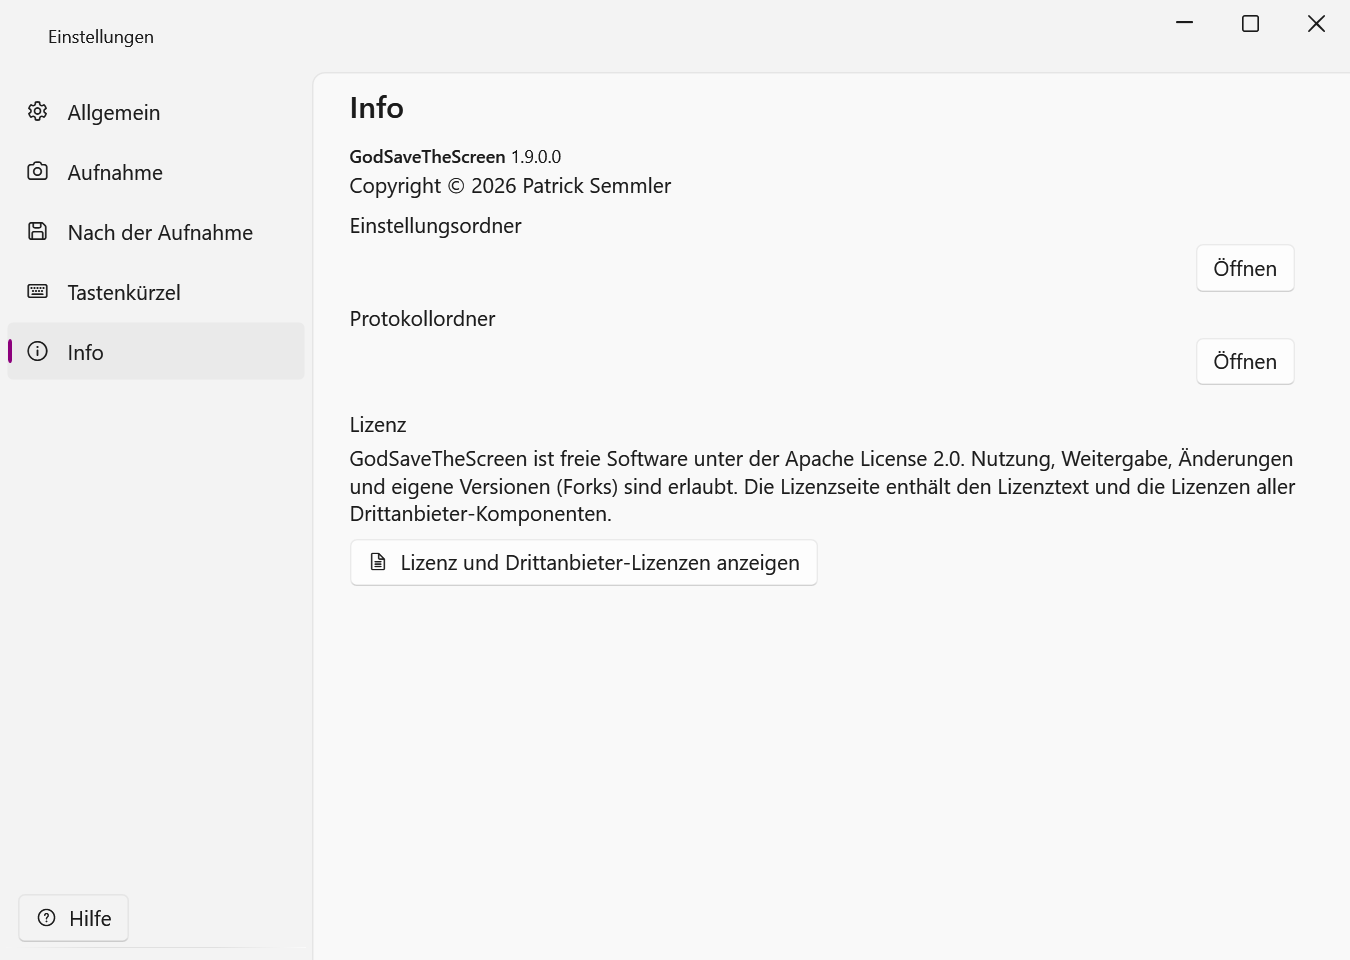
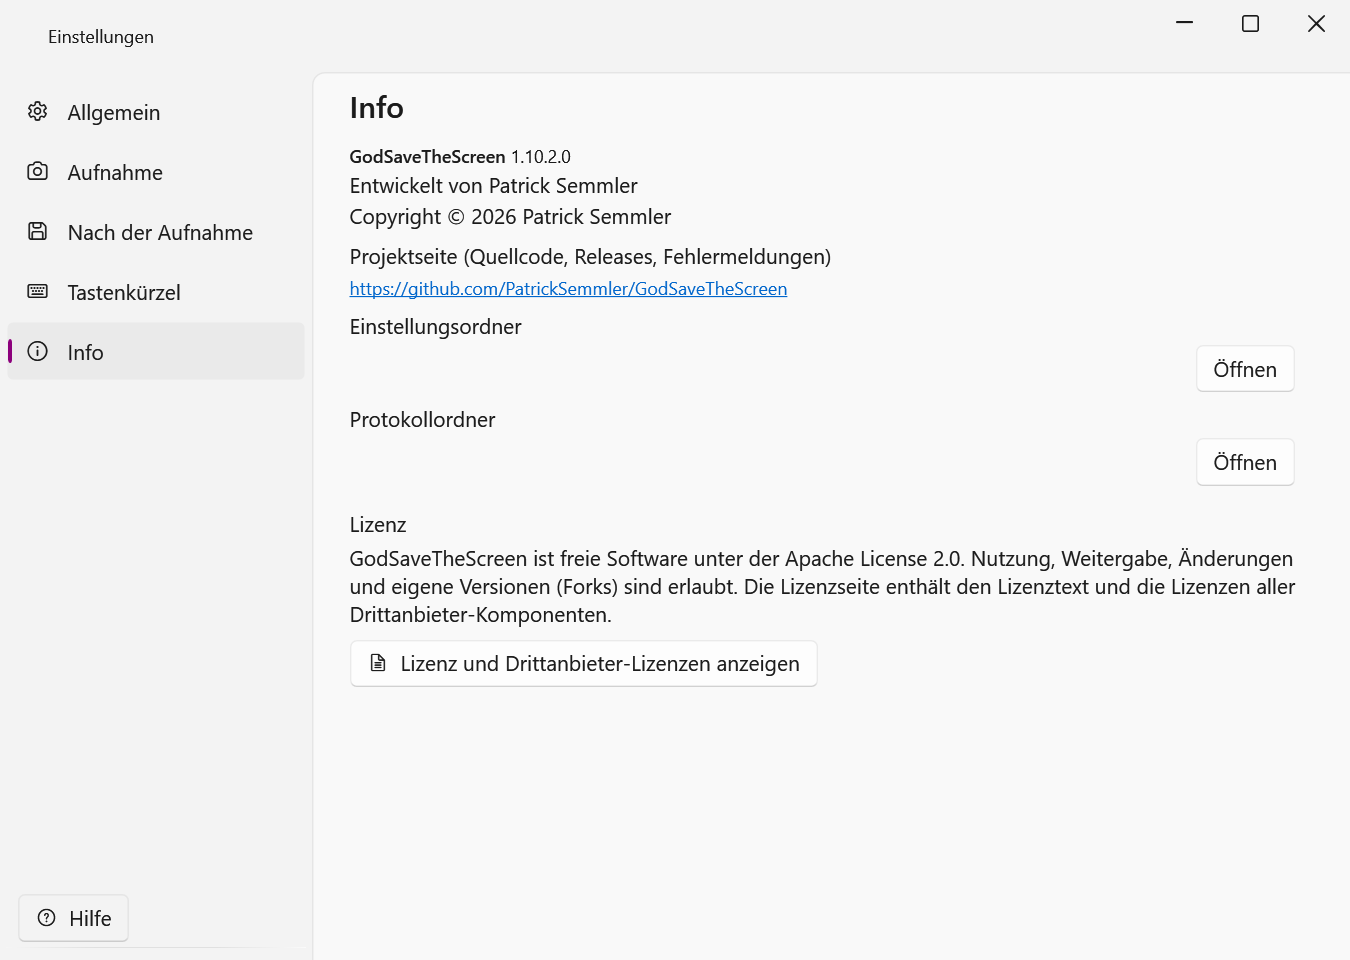
Feature: Show developer and GitHub project page in About settings
Settings > About now shows "Developed by Patrick Semmler" and a link to
https://github.com/PatrickSemmler/GodSaveTheScreen. Name and URL come
from <Authors>/<RepositoryUrl> in Directory.Build.props and are embedded
as AssemblyMetadata. User guide text and About screenshot updated.

Version 1.10.2.0

diff --git a/docs/help/de/index.html b/docs/help/de/index.html
@@ -648,7 +648,7 @@
 
 <h3 id="settings-about">Info</h3>
 <figure class="shot"><img src="images/settings-about.png" alt="Einstellungsseite Info"></figure>
-<p>Zeigt die Programmversion, öffnet den <b>Einstellungsordner</b> und den <b>Protokollordner</b> und zeigt Copyright und Lizenz. <span class="ui">Lizenz und Drittanbieter-Lizenzen anzeigen</span> öffnet die Lizenzseite im Browser: Kurzfassung der <b>Apache License 2.0</b>, Hinweise für Forks, der vollständige Lizenztext und alle <b>Drittanbieter-Komponenten</b> mit ihren Lizenzen.</p>
+<p>Zeigt Programmversion, Entwickler und den Link zur <b>Projektseite auf GitHub</b> (Quellcode, neue Versionen, Fehlermeldungen), öffnet den <b>Einstellungsordner</b> und den <b>Protokollordner</b> und zeigt Copyright und Lizenz. <span class="ui">Lizenz und Drittanbieter-Lizenzen anzeigen</span> öffnet die Lizenzseite im Browser: Kurzfassung der <b>Apache License 2.0</b>, Hinweise für Forks, der vollständige Lizenztext und alle <b>Drittanbieter-Komponenten</b> mit ihren Lizenzen.</p>
 
 <!-- ===================================================================== -->
 <h2 id="shortcuts">Tastenkürzel</h2>
@@ -722,7 +722,7 @@
 <p>Neuere Versionen ersetzen eine vorhandene Installation derselben Art (für den Benutzer bzw. für alle) automatisch und behalten ohne Angabe deren Ordner und Startmenü-Wahl; die Einstellungen der Benutzer bleiben erhalten.</p>
 
 <h3 id="faq-logs">Fehler melden</h3>
-<p>Bei Problemen helfen die Protokolle weiter. Den Protokollordner öffnen Sie unter <a href="#settings-about">Einstellungen → Info</a>.</p>
+<p>Bei Problemen helfen die Protokolle weiter. Den Protokollordner öffnen Sie unter <a href="#settings-about">Einstellungen → Info</a>. Fehler und Wünsche können Sie auf der Projektseite (ebenfalls unter Info) melden.</p>
 
 <footer>GodSaveTheScreen {{VERSION}} · Benutzeranleitung · <a href="#intro">Zum Anfang</a></footer>
 </div>

diff --git a/docs/help/en/index.html b/docs/help/en/index.html
@@ -648,7 +648,7 @@
 
 <h3 id="settings-about">About</h3>
 <figure class="shot"><img src="images/settings-about.png" alt="About settings page"></figure>
-<p>Shows the program version, opens the <b>settings folder</b> and the <b>log folder</b>, and shows the copyright and license. <span class="ui">Show license and third-party licenses</span> opens the license page in your browser: a summary of the <b>Apache License 2.0</b>, notes on forks, the full license text and all <b>third-party components</b> with their licenses.</p>
+<p>Shows the program version, the developer and a link to the <b>project page on GitHub</b> (source code, new versions, issue reports), opens the <b>settings folder</b> and the <b>log folder</b>, and shows the copyright and license. <span class="ui">Show license and third-party licenses</span> opens the license page in your browser: a summary of the <b>Apache License 2.0</b>, notes on forks, the full license text and all <b>third-party components</b> with their licenses.</p>
 
 <!-- ===================================================================== -->
 <h2 id="shortcuts">Keyboard shortcuts</h2>
@@ -722,7 +722,7 @@
 <p>Newer versions automatically replace an existing installation of the same kind (for the user or for all users) and, unless specified otherwise, keep its folder and Start menu choice; the users’ settings are kept.</p>
 
 <h3 id="faq-logs">Reporting problems</h3>
-<p>The logs help with problems. Open the log folder under <a href="#settings-about">Settings → About</a>.</p>
+<p>The logs help with problems. Open the log folder under <a href="#settings-about">Settings → About</a>. You can report bugs and suggestions on the project page (also linked under About).</p>
 
 <footer>GodSaveTheScreen {{VERSION}} · User Guide · <a href="#intro">Back to top</a></footer>
 </div>

diff --git a/src/GodSaveTheScreen.App/Views/Settings/AboutPage.xaml b/src/GodSaveTheScreen.App/Views/Settings/AboutPage.xaml
@@ -15,7 +15,18 @@
         <Run Text="{l:Loc App_Name}" FontWeight="SemiBold" />
         <Run Text="{Binding Version, Mode=OneWay}" />
       </TextBlock>
+      <StackPanel Orientation="Horizontal" Margin="0,2,0,0">
+        <TextBlock Text="{l:Loc Settings_DevelopedBy}" />
+        <TextBlock Text="{Binding Author, Mode=OneWay}" Margin="4,0,0,0" />
+      </StackPanel>
       <TextBlock Text="{Binding Copyright, Mode=OneWay}" Margin="0,2,0,0" />
+      <TextBlock Style="{StaticResource Label}" Text="{l:Loc Settings_ProjectPage}" />
+      <TextBlock TextWrapping="Wrap">
+        <Hyperlink Command="{Binding OpenRepositoryCommand}" ToolTip="{Binding RepositoryUrl, Mode=OneWay}"
+                   AutomationProperties.Name="{l:Loc Settings_ProjectPage}">
+          <Run Text="{Binding RepositoryUrl, Mode=OneWay}" />
+        </Hyperlink>
+      </TextBlock>
       <TextBlock Style="{StaticResource Label}" Text="{l:Loc Settings_DataFolder}" />
       <Grid>
         <Grid.ColumnDefinitions>

diff --git a/src/GodSaveTheScreen.App/ViewModels/SettingsViewModel.cs b/src/GodSaveTheScreen.App/ViewModels/SettingsViewModel.cs
@@ -323,6 +323,17 @@ public sealed partial class SettingsViewModel : ObservableObject
         typeof(SettingsViewModel).Assembly.GetCustomAttributes(typeof(System.Reflection.AssemblyCopyrightAttribute), false)
             is [System.Reflection.AssemblyCopyrightAttribute { Copyright: { Length: > 0 } text }, ..] ? text : string.Empty;
 
+    /// <summary>Entwickler aus <c>Directory.Build.props</c> (<c>&lt;Authors&gt;</c>).</summary>
+    public string Author { get; } = AssemblyMetadata("Authors");
+
+    /// <summary>Projektseite auf GitHub aus <c>Directory.Build.props</c> (<c>&lt;RepositoryUrl&gt;</c>).</summary>
+    public string RepositoryUrl { get; } = AssemblyMetadata("RepositoryUrl");
+
+    private static string AssemblyMetadata(string key) =>
+        typeof(SettingsViewModel).Assembly.GetCustomAttributes(typeof(System.Reflection.AssemblyMetadataAttribute), false)
+            .OfType<System.Reflection.AssemblyMetadataAttribute>()
+            .FirstOrDefault(a => a.Key == key)?.Value ?? string.Empty;
+
     /// <summary>Hotkeys während einer Aufnahme im Recorder ausschalten, damit die Kombination nicht auslöst.</summary>
     public void SuspendHotkeys() => _hotkeys.SuspendHotkeys();
 
@@ -353,6 +364,13 @@ public sealed partial class SettingsViewModel : ObservableObject
 
     [RelayCommand]
     private void ShowLicense() => _help.ShowLicense();
+
+    [RelayCommand]
+    private void OpenRepository()
+    {
+        if (Uri.TryCreate(RepositoryUrl, UriKind.Absolute, out var uri) && uri.Scheme == Uri.UriSchemeHttps)
+            Shell(uri.AbsoluteUri);
+    }
 
     [RelayCommand]
     [System.Diagnostics.CodeAnalysis.SuppressMessage("Performance", "CA1822", Justification = "Wird von RelayCommand als Instanzmethode benötigt")]

diff --git a/src/GodSaveTheScreen.App/Resources/Strings.Designer.cs b/src/GodSaveTheScreen.App/Resources/Strings.Designer.cs
@@ -183,7 +183,11 @@ public static class Strings
 
     public static string Settings_Open => ResourceManager.GetString("Settings_Open", Culture) ?? "Settings_Open";
 
-    public static string Settings_Licenses => ResourceManager.GetString("Settings_Licenses", Culture) ?? "Settings_Licenses";
+    public static string Settings_DevelopedBy => ResourceManager.GetString("Settings_DevelopedBy", Culture) ?? "Settings_DevelopedBy";
+
+    public static string Settings_ProjectPage => ResourceManager.GetString("Settings_ProjectPage", Culture) ?? "Settings_ProjectPage";
+
+    public static string Settings_Licenses =>ResourceManager.GetString("Settings_Licenses", Culture) ?? "Settings_Licenses";
 
     public static string Settings_LicenseInfo => ResourceManager.GetString("Settings_LicenseInfo", Culture) ?? "Settings_LicenseInfo";
 

diff --git a/tests/GodSaveTheScreen.App.Tests/M11Tests.cs b/tests/GodSaveTheScreen.App.Tests/M11Tests.cs
@@ -555,6 +555,18 @@ public sealed class ReleaseConfigurationTests
     }
 
     [Fact]
+    public void InfoSeite_KenntEntwicklerUndProjektseite()
+    {
+        var metadata = typeof(GodSaveTheScreen.App.ViewModels.SettingsViewModel).Assembly
+            .GetCustomAttributes(typeof(System.Reflection.AssemblyMetadataAttribute), false)
+            .OfType<System.Reflection.AssemblyMetadataAttribute>()
+            .ToDictionary(a => a.Key, a => a.Value);
+
+        metadata["Authors"].ShouldBe("Patrick Semmler");
+        metadata["RepositoryUrl"].ShouldBe("https://github.com/PatrickSemmler/GodSaveTheScreen");
+    }
+
+    [Fact]
     public void PublishProfil_EntsprichtDerVorgabe()
     {
         var profile = XDocument.Parse(Read("src", "GodSaveTheScreen.App", "Properties", "PublishProfiles", "win-x64.pubxml"));

diff --git a/docs/agent/architecture.md b/docs/agent/architecture.md
@@ -46,7 +46,7 @@ Verified against working tree on top of commit e7168c5 (Installer uncommitted) o
 - Bildobjekte: `ImageAnnotation` (Diskriminator `image`, `IRotatableAnnotation`/`IShadowAnnotation`/`IFlippableAnnotation` wie Emoji, `Source` = `ImageAsset`, `OriginalSize`, `Outline`/`OutlineBlur`) zeichnet `AnnotationRenderer.Images.cs` selbst gedreht/gespiegelt; Kontur = `SoftLayer.CreateOutline` (Deckung per `DistanceTransform` geweitet, unter dem Bild), Schatten kommt automatisch aus der Deckung (`DrawCore`) und folgt so der Transparenz. Quellen: `ImageTool` (`I`, Klick/Bereich -> `EditorContext.RequestImageInsert` -> `EditorViewModel.InsertImageFromFiles`, per Dispatcher nach dem Zeigerereignis), Panel-/Kontextmenü „Bild einfügen…“, `Strg+Umschalt+V` (`PasteAsImageCommand`: Objekte, Dateiliste, SVG, Bitmap), Drop auf die Zeichenfläche (`EditorCanvas.DropPoint`; außerhalb/Strg/eigener Drag = neues Fenster wie bisher). `ImageInsert.Load` + `IImageInsertDialogs` (Dateiauswahl, `FramePickerDialog` für Mehrbilddateien) -> `ImageImport` -> `ImageToolState.Insert` (Vorgaben `AppSettings.ImageDefaults`, ein Undo-Schritt, Originalgröße ≤ 80 % des Screenshots bzw. in Bereich eingepasst). Panel `ImagePropertiesViewModel`, Vorlagen `PresetKind.Image`/`ToolPreset.Image`
 - Bereiche entfernen: `AreaSelectTool` (`W`, Rechteck/Ellipse/Lasso/Zauberstab, Umschalt = hinzufügen, Alt = abziehen) füllt `EditorContext.AreaSelection` (Core `AreaSelection`, Byte-Deckung je Pixel, kein Undo, beim Werkzeugwechsel geleert); `Entf` -> `MaskCommands.RemoveSelection` -> `MaskEditing.Remove` (weiche Kante) -> `MaskEditAction` auf `ImageDocument.Mask`. `BackgroundEraserTool` (`D`) malt per `MaskBrush` live in die Maske (Alt = wiederherstellen), beim Loslassen ein `MaskEditAction` mit Vorher/Nachher des Dirty-Rechtecks. Panel: `MaskToolsViewModel`; Einstellungen `AppSettings.MaskToolDefaults` (`EditorContext.MaskTool`)
 - Benutzeranleitung: `F1` (alle Fenster, Hilfe-Schaltflächen in Start/Editor/Einstellungen, Tray-Menü) -> `IAppShell.ShowHelp(topic)` -> `HelpService` (`Services/HelpService.cs`): `HelpFiles.Resolve` wählt `GodSaveTheScreen-Hilfe.html`/`-Help.html` in `AppContext.BaseDirectory` nach `CurrentUICulture` (Fallback andere Sprache), öffnet per Shell im Standardbrowser; `Umschalt+F1` übergibt eine Abschnitts-ID aus `HelpTopics` (Editor: Ebenenliste mit Fokus -> `layers`, Auswahlwerkzeug mit Auswahl eines Typs -> `ForSelection`, sonst `ForTool(ActiveTool.Id)` = `tool-<id>`, Pipette -> `colors`; Einstellungen: aktuelle Seite `settings-*`; Startfenster `start-window`; Kürzelfenster `shortcuts`)
-- Lizenz: Apache-2.0 (`LICENSE` unverändert, Rechteinhaber in `NOTICE` und `<Copyright>` in `Directory.Build.props`). Einstellungen -> Info -> `SettingsViewModel.ShowLicenseCommand` -> `IHelpService.ShowLicense()` öffnet `GodSaveTheScreen-Lizenz.html`/`-License.html` (`HelpFiles.ResolveLicense`, gleiche Sprachwahl wie die Hilfe)
+- Lizenz: Apache-2.0 (`LICENSE` unverändert, Rechteinhaber in `NOTICE` und `<Copyright>` in `Directory.Build.props`). Einstellungen -> Info -> `SettingsViewModel.ShowLicenseCommand` -> `IHelpService.ShowLicense()` öffnet `GodSaveTheScreen-Lizenz.html`/`-License.html` (`HelpFiles.ResolveLicense`, gleiche Sprachwahl wie die Hilfe). Entwickler und Projektseite (Hyperlink, nur `https`) kommen aus `<Authors>`/`<RepositoryUrl>` in `Directory.Build.props`, die als `AssemblyMetadata` (`Authors`, `RepositoryUrl`) in jede Assembly geschrieben werden
 - Tastenkürzel-Übersicht: `Strg+F1` (Editor und Startfenster; im Editor auch `Strg+?`) -> `IAppShell.ShowShortcuts` -> `ShortcutsWindow` mit `ShortcutCatalog` (Werkzeuge aus `ToolRegistry`, feste Befehlsliste `EditorCommands`, globale Hotkeys aus den Einstellungen); `FirstRunHint` zeigt einmalig (`AppSettings.FirstRunHintShown`) nach dem Start Hotkeys/Tray/Druck-Taste; `HotkeyService` ignoriert Hotkeys bei gesperrter/getrennter Sitzung (`ISessionState`)
 - Release: `build/release.ps1` (Tests -> je Runtime `dotnet publish -p:PublishProfile=<rid>` -> ZIP, MSI, Setup-EXE in `dist/`; Installer siehe `docs/agent/installer.md`), Version (vierstellig, Erhöhungsregel in `CLAUDE.md`) in `Directory.Build.props`, Git-Hash über `Directory.Build.targets` (`SourceRevisionId`), `THIRD-PARTY-NOTICES.txt` aus `build/generate-notices.ps1`; ZIP enthält zusätzlich `LICENSE`, `NOTICE` und die Lizenzseiten
 - Sicherung/Wiederherstellung: `AutoBackupService` (60 s + 10 s nach Änderung) schreibt `{DocumentId}.gsts` nach `IAppPaths.AutosaveDirectory` (Schnappschuss auf UI-Thread, Schreiben im Hintergrund), löscht beim Speichern/Schließen; `RecoverAsync` beim Start. `RecentFilesService` (`recent.json`, max. 15) speist Startfenster, Tray-Untermenü, Editor-Menü „Öffnen ▾“ und `JumpListService`

diff --git a/CHANGELOG.md b/CHANGELOG.md
@@ -5,6 +5,7 @@ Das Format orientiert sich an [Keep a Changelog](https://keepachangelog.com/de/1
 ## [Unveröffentlicht]
 
 ### Neu
+- **Info-Seite (1.10.2.0):** Einstellungen → Info zeigt den Entwickler und einen Link zur Projektseite auf GitHub (https://github.com/PatrickSemmler/GodSaveTheScreen) mit Quellcode, Releases und Fehlermeldungen.
 - **Setup: Zielordner und Startmenü (1.10.1.0):** Setup-EXE (unter „Optionen“) und MSI lassen den Zielordner wählen (je Installationsart, mit „Durchsuchen“) und die Startmenü-Verknüpfung abwählen. Still: `InstallFolder=…`/`StartMenuShortcut=0` (Setup-EXE) bzw. `INSTALLFOLDER=…`/`STARTMENUSHORTCUT=0` (MSI). Updates übernehmen ohne Angabe Ordner und Startmenü-Wahl der vorhandenen Installation.
 - **Setup und MSI (1.10.0.0):** Neben dem ZIP gibt es je Plattform (x64, ARM64) eine Setup-EXE und ein MSI-Paket, beide auf Deutsch und Englisch. Installation „Nur für mich“ (ohne Administratorrechte) oder „Für alle Benutzer“, Startmenü-Verknüpfung, Dateizuordnung `.gsts` und Eintrag unter „Apps“. Für die Softwareverteilung still installierbar (`msiexec /i … /qn ALLUSERS=1` bzw. `…-Setup.exe /quiet InstallScope=PerMachine`). Neuere Versionen ersetzen die vorhandene Installation. „Mit Windows starten“ bleibt eine Einstellung der App. Release-Dateien liegen jetzt in `dist\`.
 - **Lizenz (1.9.0.0):** GodSaveTheScreen steht unter der Apache License 2.0 (Dateien `LICENSE` und `NOTICE`). Die Lizenzseite (`GodSaveTheScreen-Lizenz.html`/`-License.html` neben der EXE, Einstellungen → Info → „Lizenz und Drittanbieter-Lizenzen anzeigen“) enthält eine Kurzfassung, Hinweise für Forks, den Lizenztext und alle Drittanbieter-Komponenten mit ihren Lizenzen.
@@ -24,6 +25,7 @@ Das Format orientiert sich an [Keep a Changelog](https://keepachangelog.com/de/1
 Erste Version mit vollem Funktionsumfang (Meilensteine M0–M11).
 
 ### Neu
+- **Info-Seite (1.10.2.0):** Einstellungen → Info zeigt den Entwickler und einen Link zur Projektseite auf GitHub (https://github.com/PatrickSemmler/GodSaveTheScreen) mit Quellcode, Releases und Fehlermeldungen.
 - **Aufnahme:** Rechteck, Fenster, Freiform, Vollbild (aktueller Monitor / alle Monitore), Timer, globale Hotkeys, Tray-Symbol, Startfenster (M1–M3).
 - **Editor:** Bilder laden und speichern (PNG, JPEG, BMP, GIF, TIFF, JPEG XR), Zwischenablage, Zoom/Pan, Drag & Drop (M4).
 - **Objekte:** Formen, Text, nummerierte Marker, Stift, Textmarker, Radierer, Lineal, Unschärfe/Verpixeln/Schwärzen, Lupe – alle bearbeitbar, mit Undo/Redo, Ebenenliste und Z-Reihenfolge (M5–M8).

diff --git a/CLAUDE.md b/CLAUDE.md
@@ -242,3 +242,12 @@ Screenshot- und Annotationstool, .NET 10 / C# / WPF (MVVM). Umsetzungsplan: `doc
 - **Was wurde gemacht**: README in zwei Sprachen mit Sprachumschalter, Download-Abschnitt (Link auf GitHub-Releases), Bildschirmfotos aus `docs/help/{en,de}/images` (Editor, Startfenster, Panels Sprechblase/Stempel/Emoji, Zuschneiden, Einstellungen). Funktionsliste um Sprechblase, Stempel, Bilder als Objekte, Bildbereiche entfernen, wachsende Zeichenfläche, Drehung, Schatten/Kontur ergänzt; Tastenkürzel um K, S, I, W, D und `Strg+Umschalt+V`; Testaufruf über die Test-EXE statt `dotnet test`
 - **Warum**: Nutzerwunsch
 - **Seiteneffekte / Hinweise**: README nutzt dieselben Bilder wie die Hilfe – nach `generate-help-screenshots.ps1` sind sie automatisch aktuell. Der Releases-Link ist relativ (`../../releases`) und funktioniert nur auf GitHub
+
+### Info-Seite: Entwickler und Link zur Projektseite – 22.10.2026
+- **Kategorie**: Funktionserweiterung
+- **Verbesserungsliste-ID**: – (Nutzerwunsch)
+- **Version**: 1.10.2.0
+- **Geänderte Dateien**: `Directory.Build.props`, `src/GodSaveTheScreen.App/Views/Settings/AboutPage.xaml`, `ViewModels/SettingsViewModel.cs`, `Resources/Strings*.resx`, `Strings.Designer.cs`, `tests/GodSaveTheScreen.App.Tests/M11Tests.cs`, `docs/help/{de,en}/index.html`, `docs/help/{de,en}/images/settings-about.png`, `CHANGELOG.md`, `docs/agent/architecture.md`
+- **Was wurde gemacht**: Einstellungen → Info zeigt „Entwickelt von Patrick Semmler“ und unter „Projektseite (Quellcode, Releases, Fehlermeldungen)“ einen Link auf https://github.com/PatrickSemmler/GodSaveTheScreen. Name und URL stehen als `<Authors>`/`<RepositoryUrl>` in `Directory.Build.props` und gelangen per `AssemblyMetadata` in die Assembly. Hilfe (Abschnitt Info, Problembehebung) und Bildschirmfoto der Info-Seite aktualisiert
+- **Warum**: Nutzerwunsch vor der Veröffentlichung auf GitHub; ersetzt das Release v1.10.1.0, das diese Angaben noch nicht hatte
+- **Seiteneffekte / Hinweise**: Der Link öffnet sich nur bei `https`-URLs (Schutz gegen versehentlich andere Ziele). Beim Erzeugen der Hilfe-Bildschirmfotos ändern sich auch `crop-mode`, `editor-overview` und `panel-emoji` geringfügig (nicht deterministisch); diese wurden zurückgesetzt
